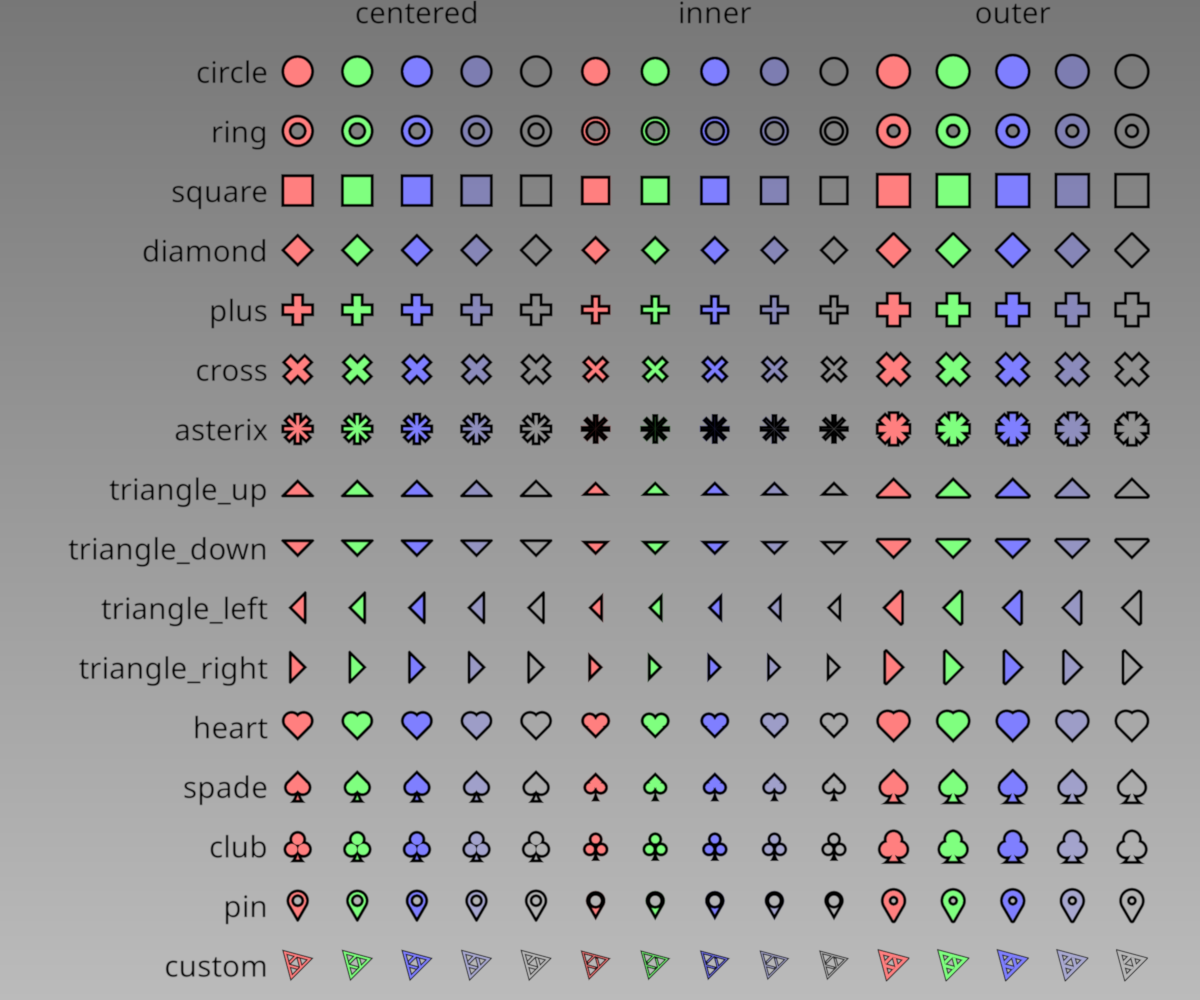
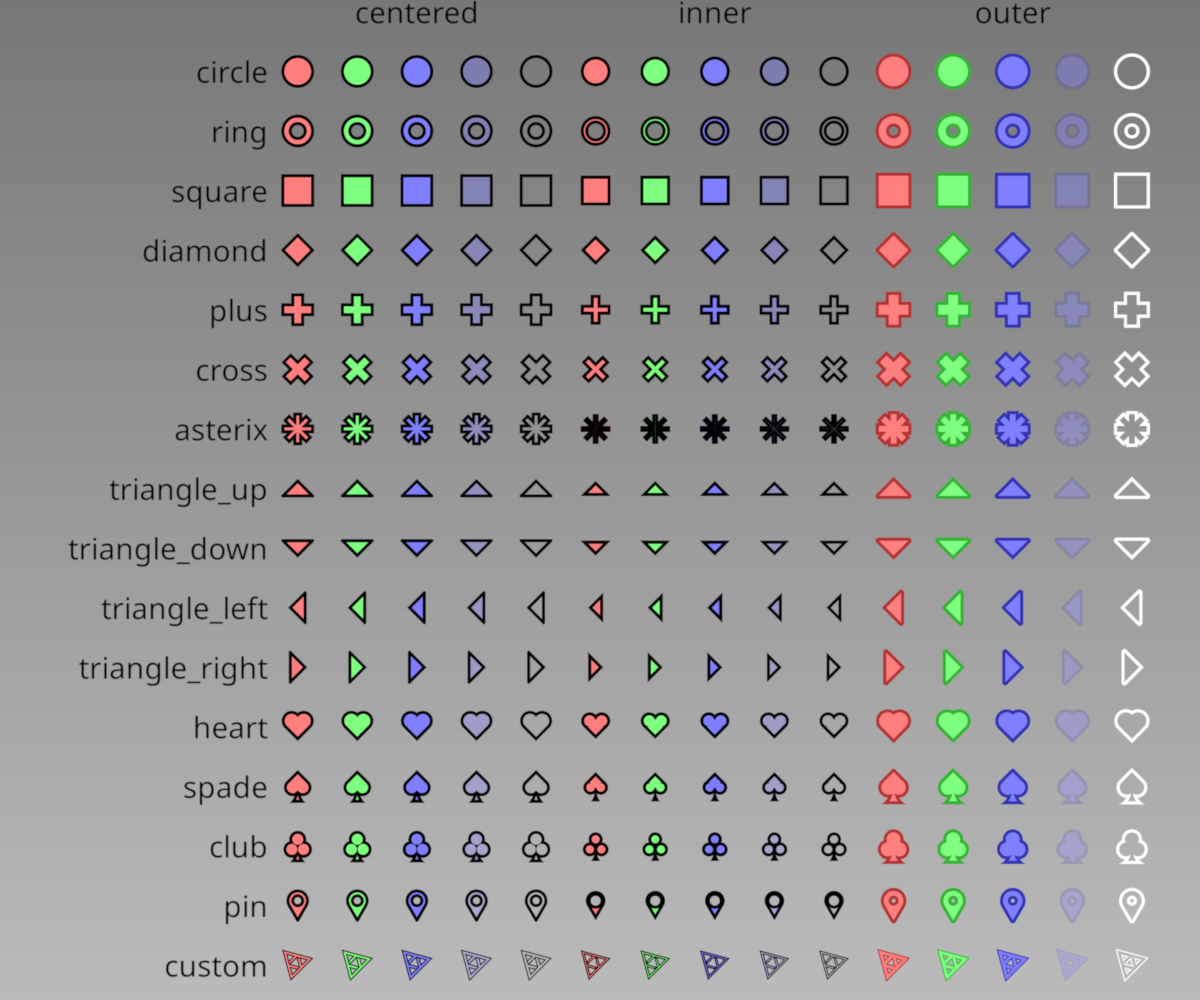
Add support for edge_colors on a per vertex for Points (#970)
* Add support for edge_colors on a per vetext for Points

Closes: https://github.com/pygfx/pygfx/issues/962

TODO:
- [ ] Add a validation example.

* Update the validation example to include edge coors

* explain

* format

* Update screenshot

* Update example again

* fad

* Apply suggestions from code review

* reduce changes

---------

diff --git a/pygfx/renderers/wgpu/shaders/pointsshader.py b/pygfx/renderers/wgpu/shaders/pointsshader.py
@@ -59,6 +59,24 @@ class PointsShader(BaseShader):
         else:
             raise RuntimeError(f"Unknown color_mode: '{color_mode}'")
 
+        if isinstance(material, PointsMarkerMaterial):
+            edge_color_mode = str(material.edge_color_mode).split(".")[-1]
+        else:
+            edge_color_mode = "uniform"
+
+        if edge_color_mode == "vertex":
+            nchannels = nchannels_from_format(geometry.edge_colors.format)
+            self["edge_color_mode"] = "vertex"
+            self["edge_color_buffer_channels"] = nchannels
+            if nchannels not in (1, 2, 3, 4):
+                raise ValueError(
+                    f"Geometry.edge_colors needs 1-4 columns, not {self['edge_color_buffer_channels']}"
+                )
+        else:  # auto or uniform
+            self["edge_color_mode"] = "uniform"
+            self["edge_color_buffer_channels"] = 0
+
+        self["edge_color_mode"] = edge_color_mode
         self["edge_mode"] = material.edge_mode
         self["is_sprite"] = 0  # 0, 1, 2
         if isinstance(material, PointsSpriteMaterial):
@@ -97,6 +115,11 @@ class PointsShader(BaseShader):
                 Binding("s_texcoords", rbuffer, geometry.texcoords, "VERTEX")
             )
             bindings.extend(self.define_colormap(material.map, geometry.texcoords))
+
+        if self["edge_color_mode"] == "vertex":
+            bindings.append(
+                Binding("s_edge_colors", rbuffer, geometry.edge_colors, "VERTEX")
+            )
 
         # Process sprite texture. Note that we can *also* have a colormap for the base color.
         if self["is_sprite"] == 2:
@@ -182,10 +205,16 @@ class PointsShader(BaseShader):
                 else:
                     pass  # mixed with color, so no need to OR with opaque
             elif isinstance(material, PointsMarkerMaterial):
-                if material.edge_color_is_transparent:
-                    render_mask |= RenderMask.transparent
-                else:
-                    render_mask |= RenderMask.opaque
+                if self["edge_color_mode"] == "vertex":
+                    if self["edge_color_buffer_channels"] in (2, 4):
+                        render_mask |= RenderMask.all
+                    else:
+                        render_mask |= RenderMask.opaque
+                elif self["edge_color_mode"] == "uniform":
+                    if material.edge_color_is_transparent:
+                        render_mask |= RenderMask.transparent
+                    else:
+                        render_mask |= RenderMask.opaque
 
         return {
             "indices": (size, 1, offset, 0),

diff --git a/pygfx/materials/_points.py b/pygfx/materials/_points.py
@@ -113,7 +113,7 @@ class PointsMaterial(Material):
 
     @property
     def color_mode(self):
-        """The way that color is applied to the mesh.
+        """The way that color is applied to the points.
 
         See :obj:`pygfx.utils.enums.ColorMode`:
         """
@@ -258,12 +258,14 @@ class PointsMarkerMaterial(PointsMaterial):
         edge_width=1,
         edge_color="black",
         custom_sdf=None,
+        edge_color_mode="auto",
         **kwargs,
     ):
         super().__init__(**kwargs)
         self.marker = marker
         self.edge_width = edge_width
         self.edge_color = edge_color
+        self.edge_color_mode = edge_color_mode
         self.custom_sdf = custom_sdf
 
     @property
@@ -358,6 +360,31 @@ class PointsMarkerMaterial(PointsMaterial):
                 f"PointsMarkerMaterial.marker must be a string in {SizeMode}, or a supported characted, not {name!r}"
             )
         self._store.marker = resolved_name
+
+    @property
+    def edge_color_mode(self):
+        """The way that color is applied to the points.
+
+        Only "uniform", "auto", and "vertex" are supported.
+
+        For `edge_color_mode`, "auto" is an alias for "uniform".
+
+        See :obj:`pygfx.utils.enums.ColorMode`:
+        """
+        return self._store.edge_color_mode
+
+    @edge_color_mode.setter
+    def edge_color_mode(self, value):
+        value = value or "auto"
+        if value not in ColorMode:
+            raise ValueError(
+                f"PointsMaterial.edge_color_mode must be a string in {ColorMode}, not {value!r}"
+            )
+        if value in ["face", "face_map", "vertex_map"]:
+            raise ValueError(
+                f"PointsMaterial.edge_color_mode does not support {value!r}"
+            )
+        self._store.edge_color_mode = value
 
     @property
     def custom_sdf(self):

diff --git a/examples/validation/validate_points_markers.py b/examples/validation/validate_points_markers.py
@@ -33,12 +33,22 @@ colors = np.array(
     ],
     np.float32,
 )
+edge_colors = np.array(
+    [
+        [0.7, 0.2, 0.2, 1.0],
+        [0.2, 0.7, 0.2, 1.0],
+        [0.2, 0.2, 0.7, 1.0],
+        [0.2, 0.2, 0.7, 0.3],
+        [1.0, 1.0, 1.0, 1.0],
+    ],
+    np.float32,
+)
 
 npoints = len(colors)
 
 positions = np.zeros((npoints, 3), np.float32)
 positions[:, 0] = np.arange(npoints) * 2
-geometry = gfx.Geometry(positions=positions, colors=colors)
+geometry = gfx.Geometry(positions=positions, colors=colors, edge_colors=edge_colors)
 
 
 scene = gfx.Scene()
@@ -178,8 +188,10 @@ for marker in gfx.MarkerShape:
             size=1,
             size_space="world",
             color_mode="vertex",
+            # Have one of the lines of points
+            # use edge_color_mode='vertex' to show the difference.
+            edge_color_mode="vertex",
             marker=marker,
-            edge_color="#000",
             edge_width=0.1 if not marker == "custom" else 0.033333,
             edge_mode="outer",
             custom_sdf=pygfx_sdf if marker == "custom" else None,
